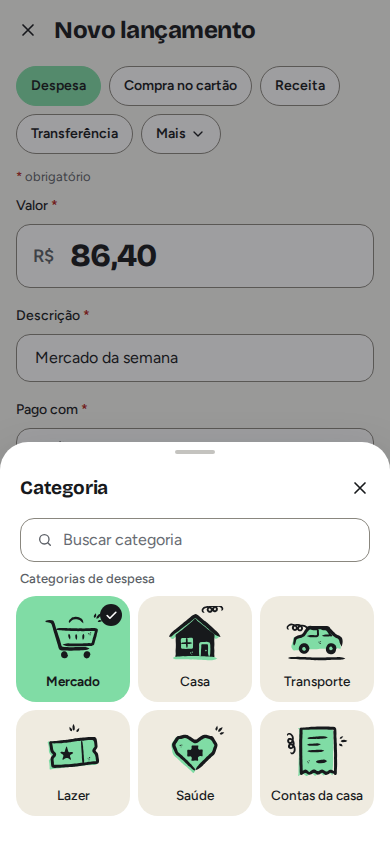
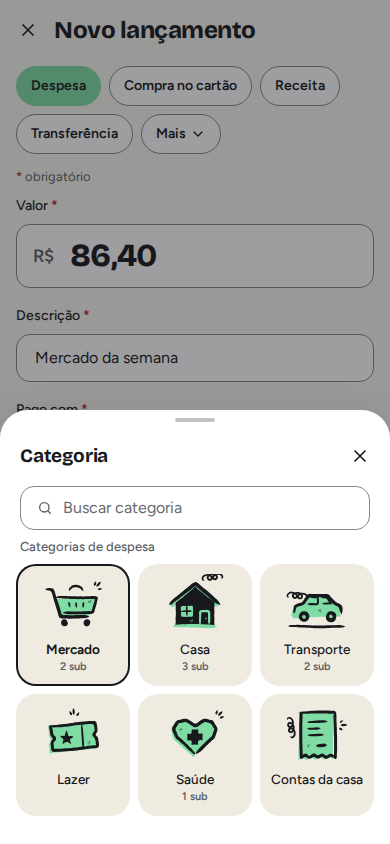
docs: new entry design version 2 and its requirements
The ENT-02 design was updated on 2026-10-14 (version 2, from the
Claude design canvas "Twise Telas · Lançamento"):
- The selected category tile is the paper tile with a 2 px ink
  outline and a bold label, like every other selection in the app; no
  full mint tile (the mint inside the drawing vanished on it) and no
  check mark.
- Subcategories: a parent shows "N sub"; tapping it opens the row
  "Em {mãe}" with "Só {mãe}" and its children, and choosing one closes
  the sheet; the search finds subcategories ("Feira · em Mercado"); the
  field reads "Mercado › Feira" with the parent's drawing. New boards
  ENT-subcategoria and ENT-subcategoria-escolhida.
- The loose travel drawing (viagem.svg) joins the loose set.

The package replaces the changed files and adds the new ones; the
relative link fixed in #225 is kept. Requirements follow it:
entries.md (category grid, subcategories), ui-standards.md (the
selected tile), roadmap.

Claude-Session: https://claude.ai/code/session_01VG8RraA5akgb2F579vzDwF

Changed region(s): [[0.0, 0.4621, 1.0, 0.955]]

diff --git a/docs/design/entries/screens/html/ENT-categoria.html b/docs/design/entries/screens/html/ENT-categoria.html
@@ -13,6 +13,6 @@ body{margin:0}
 <body>
 <div style="width:390px;height:844px" class="app ent"><div class="ent-scroll"><header class="ent-top"><button class="icon-btn" type="button" aria-label="Cancelar"><svg class="icon" viewBox="0 0 24 24" fill="none" stroke="currentColor" stroke-width="2" stroke-linecap="round" stroke-linejoin="round" aria-hidden="true"><path d="M18 6 6 18M6 6l12 12"/></svg></button><h1>Novo lançamento</h1></header><div class="ent-types" role="radiogroup" aria-label="Tipo de lançamento"><button class="tchip" role="radio" aria-checked="true" type="button">Despesa</button><button class="tchip" role="radio" aria-checked="false" type="button">Compra no cartão</button><button class="tchip" role="radio" aria-checked="false" type="button">Receita</button><button class="tchip" role="radio" aria-checked="false" type="button">Transferência</button><button class="tchip tchip--more" role="radio" aria-checked="false" type="button" aria-haspopup="dialog">Mais<svg class="icon-sm" viewBox="0 0 24 24" fill="none" stroke="currentColor" stroke-width="2" stroke-linecap="round" stroke-linejoin="round" aria-hidden="true"><path d="M6 9l6 6 6-6"/></svg></button></div><p class="req-hint"><b aria-hidden="true">*</b> obrigatório</p><form class="ent-form" novalidate><div class="fn-field"><label class="fn-field__label" for="valor">Valor <b aria-hidden="true">*</b></label><div class="fn-input money-in ent-money"><span class="money-in__cur">R$</span><input id="valor" inputmode="decimal" placeholder="0,00" value="86,40"></div></div><div class="fn-field" style="position:relative"><label class="fn-field__label" for="desc">Descrição <b aria-hidden="true">*</b></label><div class="fn-input"><input id="desc" placeholder="Ex.: Mercado da semana" value="Mercado da semana"></div></div><div class="fn-field"><span class="fn-field__label">Pago com <b aria-hidden="true">*</b></span><button class="pick" type="button" aria-haspopup="dialog"><img src="../../../assets/ilustracoes/soltas/carteira.svg" alt=""><span class="grow">Conta X<small>Saldo de hoje: R$ 4.200,00</small></span><svg class="icon-sm" viewBox="0 0 24 24" fill="none" stroke="currentColor" stroke-width="2" stroke-linecap="round" stroke-linejoin="round" aria-hidden="true"><path d="M6 9l6 6 6-6"/></svg></button></div><div class="fn-field"><span class="fn-field__label">Categoria <b aria-hidden="true">*</b></span><button class="pick" type="button" aria-haspopup="dialog"><img src="../../../assets/ilustracoes/soltas/mercado.svg" alt=""><span class="grow">Mercado</span><svg class="icon-sm" viewBox="0 0 24 24" fill="none" stroke="currentColor" stroke-width="2" stroke-linecap="round" stroke-linejoin="round" aria-hidden="true"><path d="M6 9l6 6 6-6"/></svg></button></div><div class="fn-field"><span class="fn-field__label">Data <b aria-hidden="true">*</b></span><div class="dchips" role="radiogroup" aria-label="Data"><button class="dchip" role="radio" aria-checked="true" type="button">Hoje, 20 out</button><button class="dchip" role="radio" aria-checked="false" type="button">Ontem</button><button class="dchip" role="radio" aria-checked="false" type="button"><svg class="icon-sm" viewBox="0 0 24 24" fill="none" stroke="currentColor" stroke-width="2" stroke-linecap="round" stroke-linejoin="round" aria-hidden="true"><rect x="3" y="4" width="18" height="18" rx="2"/><path d="M16 2v4M8 2v4M3 10h18"/></svg>Outra data</button></div></div><div class="fn-field"><label class="fn-field__label">Forma de pagamento</label><button class="sel" type="button" aria-haspopup="listbox"><span class="grow">Pix</span><svg class="icon-sm" viewBox="0 0 24 24" fill="none" stroke="currentColor" stroke-width="2" stroke-linecap="round" stroke-linejoin="round" aria-hidden="true"><path d="M6 9l6 6 6-6"/></svg></button></div><div class="fn-field"><span class="fn-field__label">Quem gastou</span><div class="who" role="radiogroup" aria-label="Quem gastou"><button class="who__b" role="radio" aria-checked="true" type="button"><span class="avatar">A</span>Member A</button><button class="who__b" role="radio" aria-checked="false" type="button"><span class="avatar">B</span>Member B</button></div></div><div class="fn-field"><span class="fn-field__label">Dividir com contatos</span><button class="add-row" type="button"><svg class="icon-sm ti" viewBox="0 0 24 24" fill="none" stroke="currentColor" stroke-width="1.75" stroke-linecap="round" stroke-linejoin="round" aria-hidden="true"><g class="ti__f" stroke="none"></g><path d="M12 5v14M5 12h14"/></svg>Dividir com contatos</button></div><div class="fn-field"><label class="fn-field__label" for="obs">Observações</label><div class="fn-input ta"><textarea id="obs" rows="2" placeholder=""></textarea></div><div class="fn-field__counter">0/2000</div></div></form></div><div class="ent-foot"><button class="fn-btn fn-btn--primary" type="submit">Salvar lançamento</button><button class="fn-btn fn-btn--tertiary ent-foot__2" type="button">Salvar e registrar outro</button></div><div class="scrim"></div><div class="sheet" role="dialog" aria-modal="true" aria-label="Categoria">
 <div class="sheet__handle"></div>
-<div class="sheet__head"><h2>Categoria</h2><button class="icon-btn" type="button" aria-label="Fechar"><svg class="icon" viewBox="0 0 24 24" fill="none" stroke="currentColor" stroke-width="2" stroke-linecap="round" stroke-linejoin="round" aria-hidden="true"><path d="M18 6 6 18M6 6l12 12"/></svg></button></div><div class="fn-input sheet__search"><svg class="icon-sm" viewBox="0 0 24 24" fill="none" stroke="currentColor" stroke-width="2" stroke-linecap="round" stroke-linejoin="round" aria-hidden="true"><circle cx="11" cy="11" r="7"/><path d="m20 20-3.5-3.5"/></svg><input placeholder="Buscar categoria" aria-label="Buscar categoria"></div><p class="sheet__sub">Categorias de despesa</p><div class="ctiles" role="listbox" aria-label="Categorias"><button class="ctile" type="button" role="option" aria-selected="true"><img src="../../../assets/ilustracoes/soltas/mercado.svg" alt=""><span>Mercado</span><span class="ctile__ok" aria-hidden="true"><svg viewBox="0 0 24 24" fill="none" stroke="currentColor" stroke-width="3" stroke-linecap="round" stroke-linejoin="round"><path d="M20 6 9 17l-5-5"/></svg></span></button><button class="ctile" type="button" role="option" aria-selected="false"><img src="../../../assets/ilustracoes/soltas/casa.svg" alt=""><span>Casa</span></button><button class="ctile" type="button" role="option" aria-selected="false"><img src="../../../assets/ilustracoes/soltas/transporte.svg" alt=""><span>Transporte</span></button><button class="ctile" type="button" role="option" aria-selected="false"><img src="../../../assets/ilustracoes/soltas/lazer.svg" alt=""><span>Lazer</span></button><button class="ctile" type="button" role="option" aria-selected="false"><img src="../../../assets/ilustracoes/soltas/saude.svg" alt=""><span>Saúde</span></button><button class="ctile" type="button" role="option" aria-selected="false"><img src="../../../assets/ilustracoes/soltas/recibo.svg" alt=""><span>Contas da casa</span></button></div></div></div>
+<div class="sheet__head"><h2>Categoria</h2><button class="icon-btn" type="button" aria-label="Fechar"><svg class="icon" viewBox="0 0 24 24" fill="none" stroke="currentColor" stroke-width="2" stroke-linecap="round" stroke-linejoin="round" aria-hidden="true"><path d="M18 6 6 18M6 6l12 12"/></svg></button></div><div class="fn-input sheet__search"><svg class="icon-sm" viewBox="0 0 24 24" fill="none" stroke="currentColor" stroke-width="2" stroke-linecap="round" stroke-linejoin="round" aria-hidden="true"><circle cx="11" cy="11" r="7"/><path d="m20 20-3.5-3.5"/></svg><input placeholder="Buscar categoria" aria-label="Buscar categoria"></div><p class="sheet__sub">Categorias de despesa</p><div class="ctiles" role="listbox" aria-label="Categorias"><button class="ctile" type="button" role="option" aria-selected="true"><img src="../../../assets/ilustracoes/soltas/mercado.svg" alt=""><span>Mercado</span><small class="ctile__cnt">2 sub</small></button><button class="ctile" type="button" role="option" aria-selected="false"><img src="../../../assets/ilustracoes/soltas/casa.svg" alt=""><span>Casa</span><small class="ctile__cnt">3 sub</small></button><button class="ctile" type="button" role="option" aria-selected="false"><img src="../../../assets/ilustracoes/soltas/transporte.svg" alt=""><span>Transporte</span><small class="ctile__cnt">2 sub</small></button><button class="ctile" type="button" role="option" aria-selected="false"><img src="../../../assets/ilustracoes/soltas/lazer.svg" alt=""><span>Lazer</span></button><button class="ctile" type="button" role="option" aria-selected="false"><img src="../../../assets/ilustracoes/soltas/saude.svg" alt=""><span>Saúde</span><small class="ctile__cnt">1 sub</small></button><button class="ctile" type="button" role="option" aria-selected="false"><img src="../../../assets/ilustracoes/soltas/recibo.svg" alt=""><span>Contas da casa</span></button></div></div></div>
 </body>
 </html>

diff --git a/docs/design/entries/screens/html/ENT-subcategoria.html b/docs/design/entries/screens/html/ENT-subcategoria.html
@@ -1,0 +1,18 @@
+<!doctype html>
+<html lang="pt-BR">
+<head>
+<meta charset="utf-8">
+<meta name="viewport" content="width=device-width, initial-scale=1">
+<title>Categoria com subcategorias</title>
+<link rel="stylesheet" href="../../twise.css">
+<link rel="stylesheet" href="https://fonts.googleapis.com/css2?family=Bricolage+Grotesque:opsz,wght@12..96,700..800&amp;family=Figtree:wght@400..700&amp;display=swap">
+<style>
+body{margin:0}
+</style>
+</head>
+<body>
+<div style="width:390px;height:844px" class="app ent"><div class="ent-scroll"><header class="ent-top"><button class="icon-btn" type="button" aria-label="Cancelar"><svg class="icon" viewBox="0 0 24 24" fill="none" stroke="currentColor" stroke-width="2" stroke-linecap="round" stroke-linejoin="round" aria-hidden="true"><path d="M18 6 6 18M6 6l12 12"/></svg></button><h1>Novo lançamento</h1></header><div class="ent-types" role="radiogroup" aria-label="Tipo de lançamento"><button class="tchip" role="radio" aria-checked="true" type="button">Despesa</button><button class="tchip" role="radio" aria-checked="false" type="button">Compra no cartão</button><button class="tchip" role="radio" aria-checked="false" type="button">Receita</button><button class="tchip" role="radio" aria-checked="false" type="button">Transferência</button><button class="tchip tchip--more" role="radio" aria-checked="false" type="button" aria-haspopup="dialog">Mais<svg class="icon-sm" viewBox="0 0 24 24" fill="none" stroke="currentColor" stroke-width="2" stroke-linecap="round" stroke-linejoin="round" aria-hidden="true"><path d="M6 9l6 6 6-6"/></svg></button></div><p class="req-hint"><b aria-hidden="true">*</b> obrigatório</p><form class="ent-form" novalidate><div class="fn-field"><label class="fn-field__label" for="valor">Valor <b aria-hidden="true">*</b></label><div class="fn-input money-in ent-money"><span class="money-in__cur">R$</span><input id="valor" inputmode="decimal" placeholder="0,00" value="86,40"></div></div><div class="fn-field" style="position:relative"><label class="fn-field__label" for="desc">Descrição <b aria-hidden="true">*</b></label><div class="fn-input"><input id="desc" placeholder="Ex.: Mercado da semana" value="Mercado da semana"></div></div><div class="fn-field"><span class="fn-field__label">Pago com <b aria-hidden="true">*</b></span><button class="pick" type="button" aria-haspopup="dialog"><img src="../../../assets/ilustracoes/soltas/carteira.svg" alt=""><span class="grow">Conta X<small>Saldo de hoje: R$ 4.200,00</small></span><svg class="icon-sm" viewBox="0 0 24 24" fill="none" stroke="currentColor" stroke-width="2" stroke-linecap="round" stroke-linejoin="round" aria-hidden="true"><path d="M6 9l6 6 6-6"/></svg></button></div><div class="fn-field"><span class="fn-field__label">Categoria <b aria-hidden="true">*</b></span><button class="pick" type="button" aria-haspopup="dialog"><span class="pick__ic pick__ic--empty"><svg class="icon-sm ti" viewBox="0 0 24 24" fill="none" stroke="currentColor" stroke-width="1.75" stroke-linecap="round" stroke-linejoin="round" aria-hidden="true"><g class="ti__f" stroke="none"></g><path d="M12 5v14M5 12h14"/></svg></span><span class="grow pick__ph">Escolha uma categoria</span><svg class="icon-sm" viewBox="0 0 24 24" fill="none" stroke="currentColor" stroke-width="2" stroke-linecap="round" stroke-linejoin="round" aria-hidden="true"><path d="M6 9l6 6 6-6"/></svg></button></div><div class="fn-field"><span class="fn-field__label">Data <b aria-hidden="true">*</b></span><div class="dchips" role="radiogroup" aria-label="Data"><button class="dchip" role="radio" aria-checked="true" type="button">Hoje, 20 out</button><button class="dchip" role="radio" aria-checked="false" type="button">Ontem</button><button class="dchip" role="radio" aria-checked="false" type="button"><svg class="icon-sm" viewBox="0 0 24 24" fill="none" stroke="currentColor" stroke-width="2" stroke-linecap="round" stroke-linejoin="round" aria-hidden="true"><rect x="3" y="4" width="18" height="18" rx="2"/><path d="M16 2v4M8 2v4M3 10h18"/></svg>Outra data</button></div></div><div class="fn-field"><label class="fn-field__label">Forma de pagamento</label><button class="sel" type="button" aria-haspopup="listbox"><span class="grow">Pix</span><svg class="icon-sm" viewBox="0 0 24 24" fill="none" stroke="currentColor" stroke-width="2" stroke-linecap="round" stroke-linejoin="round" aria-hidden="true"><path d="M6 9l6 6 6-6"/></svg></button></div><div class="fn-field"><span class="fn-field__label">Quem gastou</span><div class="who" role="radiogroup" aria-label="Quem gastou"><button class="who__b" role="radio" aria-checked="true" type="button"><span class="avatar">A</span>Member A</button><button class="who__b" role="radio" aria-checked="false" type="button"><span class="avatar">B</span>Member B</button></div></div><div class="fn-field"><span class="fn-field__label">Dividir com contatos</span><button class="add-row" type="button"><svg class="icon-sm ti" viewBox="0 0 24 24" fill="none" stroke="currentColor" stroke-width="1.75" stroke-linecap="round" stroke-linejoin="round" aria-hidden="true"><g class="ti__f" stroke="none"></g><path d="M12 5v14M5 12h14"/></svg>Dividir com contatos</button></div><div class="fn-field"><label class="fn-field__label" for="obs">Observações</label><div class="fn-input ta"><textarea id="obs" rows="2" placeholder=""></textarea></div><div class="fn-field__counter">0/2000</div></div></form></div><div class="ent-foot"><button class="fn-btn fn-btn--primary" type="submit" aria-disabled="true">Salvar lançamento</button><button class="fn-btn fn-btn--tertiary ent-foot__2" type="button" aria-disabled="true">Salvar e registrar outro</button></div><div class="scrim"></div><div class="sheet" role="dialog" aria-modal="true" aria-label="Categoria">
+<div class="sheet__handle"></div>
+<div class="sheet__head"><h2>Categoria</h2><button class="icon-btn" type="button" aria-label="Fechar"><svg class="icon" viewBox="0 0 24 24" fill="none" stroke="currentColor" stroke-width="2" stroke-linecap="round" stroke-linejoin="round" aria-hidden="true"><path d="M18 6 6 18M6 6l12 12"/></svg></button></div><div class="fn-input sheet__search"><svg class="icon-sm" viewBox="0 0 24 24" fill="none" stroke="currentColor" stroke-width="2" stroke-linecap="round" stroke-linejoin="round" aria-hidden="true"><circle cx="11" cy="11" r="7"/><path d="m20 20-3.5-3.5"/></svg><input placeholder="Buscar categoria" aria-label="Buscar categoria"></div><p class="sheet__sub">Categorias de despesa</p><div class="ctiles" role="listbox" aria-label="Categorias"><button class="ctile" type="button" role="option" aria-selected="true"><img src="../../../assets/ilustracoes/soltas/mercado.svg" alt=""><span>Mercado</span><small class="ctile__cnt">2 sub</small></button><button class="ctile" type="button" role="option" aria-selected="false"><img src="../../../assets/ilustracoes/soltas/casa.svg" alt=""><span>Casa</span><small class="ctile__cnt">3 sub</small></button><button class="ctile" type="button" role="option" aria-selected="false"><img src="../../../assets/ilustracoes/soltas/transporte.svg" alt=""><span>Transporte</span><small class="ctile__cnt">2 sub</small></button><button class="ctile" type="button" role="option" aria-selected="false"><img src="../../../assets/ilustracoes/soltas/lazer.svg" alt=""><span>Lazer</span></button><button class="ctile" type="button" role="option" aria-selected="false"><img src="../../../assets/ilustracoes/soltas/saude.svg" alt=""><span>Saúde</span><small class="ctile__cnt">1 sub</small></button><button class="ctile" type="button" role="option" aria-selected="false"><img src="../../../assets/ilustracoes/soltas/recibo.svg" alt=""><span>Contas da casa</span></button></div><div class="subrow"><p class="sheet__sub" style="margin:0 0 8px">Em Mercado</p><div class="dchips" role="radiogroup" aria-label="Subcategoria de Mercado"><button class="dchip" role="radio" aria-checked="false" type="button">Só Mercado</button><button class="dchip" role="radio" aria-checked="false" type="button">Feira</button><button class="dchip" role="radio" aria-checked="false" type="button">Padaria</button></div></div></div></div>
+</body>
+</html>

diff --git a/docs/design/entries/screens/html/ENT-subcategoria-escolhida.html b/docs/design/entries/screens/html/ENT-subcategoria-escolhida.html
@@ -1,0 +1,16 @@
+<!doctype html>
+<html lang="pt-BR">
+<head>
+<meta charset="utf-8">
+<meta name="viewport" content="width=device-width, initial-scale=1">
+<title>Subcategoria escolhida</title>
+<link rel="stylesheet" href="../../twise.css">
+<link rel="stylesheet" href="https://fonts.googleapis.com/css2?family=Bricolage+Grotesque:opsz,wght@12..96,700..800&amp;family=Figtree:wght@400..700&amp;display=swap">
+<style>
+body{margin:0}
+</style>
+</head>
+<body>
+<div style="width:390px;height:844px" class="app ent"><div class="ent-scroll"><header class="ent-top"><button class="icon-btn" type="button" aria-label="Cancelar"><svg class="icon" viewBox="0 0 24 24" fill="none" stroke="currentColor" stroke-width="2" stroke-linecap="round" stroke-linejoin="round" aria-hidden="true"><path d="M18 6 6 18M6 6l12 12"/></svg></button><h1>Novo lançamento</h1></header><div class="ent-types" role="radiogroup" aria-label="Tipo de lançamento"><button class="tchip" role="radio" aria-checked="true" type="button">Despesa</button><button class="tchip" role="radio" aria-checked="false" type="button">Compra no cartão</button><button class="tchip" role="radio" aria-checked="false" type="button">Receita</button><button class="tchip" role="radio" aria-checked="false" type="button">Transferência</button><button class="tchip tchip--more" role="radio" aria-checked="false" type="button" aria-haspopup="dialog">Mais<svg class="icon-sm" viewBox="0 0 24 24" fill="none" stroke="currentColor" stroke-width="2" stroke-linecap="round" stroke-linejoin="round" aria-hidden="true"><path d="M6 9l6 6 6-6"/></svg></button></div><p class="req-hint"><b aria-hidden="true">*</b> obrigatório</p><form class="ent-form" novalidate><div class="fn-field"><label class="fn-field__label" for="valor">Valor <b aria-hidden="true">*</b></label><div class="fn-input money-in ent-money"><span class="money-in__cur">R$</span><input id="valor" inputmode="decimal" placeholder="0,00" value="86,40"></div></div><div class="fn-field" style="position:relative"><label class="fn-field__label" for="desc">Descrição <b aria-hidden="true">*</b></label><div class="fn-input"><input id="desc" placeholder="Ex.: Mercado da semana" value="Mercado da semana"></div></div><div class="fn-field"><span class="fn-field__label">Pago com <b aria-hidden="true">*</b></span><button class="pick" type="button" aria-haspopup="dialog"><img src="../../../assets/ilustracoes/soltas/carteira.svg" alt=""><span class="grow">Conta X<small>Saldo de hoje: R$ 4.200,00</small></span><svg class="icon-sm" viewBox="0 0 24 24" fill="none" stroke="currentColor" stroke-width="2" stroke-linecap="round" stroke-linejoin="round" aria-hidden="true"><path d="M6 9l6 6 6-6"/></svg></button></div><div class="fn-field"><span class="fn-field__label">Categoria <b aria-hidden="true">*</b></span><button class="pick" type="button" aria-haspopup="dialog"><img src="../../../assets/ilustracoes/soltas/mercado.svg" alt=""><span class="grow">Mercado <span class="crumb-sep">›</span> Feira</span><svg class="icon-sm" viewBox="0 0 24 24" fill="none" stroke="currentColor" stroke-width="2" stroke-linecap="round" stroke-linejoin="round" aria-hidden="true"><path d="M6 9l6 6 6-6"/></svg></button></div><div class="fn-field"><span class="fn-field__label">Data <b aria-hidden="true">*</b></span><div class="dchips" role="radiogroup" aria-label="Data"><button class="dchip" role="radio" aria-checked="true" type="button">Hoje, 20 out</button><button class="dchip" role="radio" aria-checked="false" type="button">Ontem</button><button class="dchip" role="radio" aria-checked="false" type="button"><svg class="icon-sm" viewBox="0 0 24 24" fill="none" stroke="currentColor" stroke-width="2" stroke-linecap="round" stroke-linejoin="round" aria-hidden="true"><rect x="3" y="4" width="18" height="18" rx="2"/><path d="M16 2v4M8 2v4M3 10h18"/></svg>Outra data</button></div></div><div class="fn-field"><label class="fn-field__label">Forma de pagamento</label><button class="sel" type="button" aria-haspopup="listbox"><span class="grow">Pix</span><svg class="icon-sm" viewBox="0 0 24 24" fill="none" stroke="currentColor" stroke-width="2" stroke-linecap="round" stroke-linejoin="round" aria-hidden="true"><path d="M6 9l6 6 6-6"/></svg></button></div><div class="fn-field"><span class="fn-field__label">Quem gastou</span><div class="who" role="radiogroup" aria-label="Quem gastou"><button class="who__b" role="radio" aria-checked="true" type="button"><span class="avatar">A</span>Member A</button><button class="who__b" role="radio" aria-checked="false" type="button"><span class="avatar">B</span>Member B</button></div></div><div class="fn-field"><span class="fn-field__label">Dividir com contatos</span><button class="add-row" type="button"><svg class="icon-sm ti" viewBox="0 0 24 24" fill="none" stroke="currentColor" stroke-width="1.75" stroke-linecap="round" stroke-linejoin="round" aria-hidden="true"><g class="ti__f" stroke="none"></g><path d="M12 5v14M5 12h14"/></svg>Dividir com contatos</button></div><div class="fn-field"><label class="fn-field__label" for="obs">Observações</label><div class="fn-input ta"><textarea id="obs" rows="2" placeholder=""></textarea></div><div class="fn-field__counter">0/2000</div></div></form></div><div class="ent-foot"><button class="fn-btn fn-btn--primary" type="submit">Salvar lançamento</button><button class="fn-btn fn-btn--tertiary ent-foot__2" type="button">Salvar e registrar outro</button></div></div>
+</body>
+</html>

diff --git a/docs/design/entries/twise.css b/docs/design/entries/twise.css
@@ -1464,3 +1464,22 @@ g.ti__f { fill: var(--ti-fill, transparent); }
 .sheet-empty b { font: 650 16px/22px var(--font-sans); color: var(--ink); }
 .sheet-empty .fn-btn { margin-top: 10px; text-decoration: none; }
 .recent__c--on { border-color: var(--ink); box-shadow: inset 0 0 0 1px var(--ink); }
+
+/* ilustração selecionada: papel + contorno escuro, certo à esquerda (decidido na rodada de contas) */
+.ctile[aria-selected="true"] { background: var(--sketch-paper); box-shadow: inset 0 0 0 2px var(--ink); font-weight: 650; }
+.ctile__ok { left: 8px; right: auto; }
+.ctile__ok { width: 16px; height: 16px; top: 7px; left: 7px; }
+.ctile__ok svg { width: 10px; height: 10px; }
+.ctile__ok { top: 11px; left: 11px; }
+
+/* decidido: papel + contorno verde-escuro, sem certo */
+.ctile[aria-selected="true"], .itile[aria-checked="true"] { background: var(--sketch-paper); box-shadow: inset 0 0 0 2px var(--mint-ink); }
+.ctile__ok { display: none; }
+
+/* final: papel + contorno escuro (como as outras seleções), sem certo */
+.ctile[aria-selected="true"], .itile[aria-checked="true"] { background: var(--sketch-paper); box-shadow: inset 0 0 0 2px var(--ink); }
+
+.ctile__cnt { font: 600 11px/14px var(--font-sans); color: var(--ink-muted); }
+.subrow { margin: 8px 16px 4px; padding: 12px; border-radius: var(--radius-lg); background: var(--bg-page); }
+.subrow .dchip { min-height: 40px; background: var(--bg-surface); }
+.crumb-sep { color: var(--ink-subtle); margin: 0 2px; font-weight: 500; }

diff --git a/docs/design/entries/screens.md b/docs/design/entries/screens.md
@@ -6,7 +6,7 @@ updated: 2026-10-14
 
 # New entry screens (ENT-02)
 
-37 boards. Fictitious, consistent numbers: today is 20 Oct, Cartão X closes on 25/10 and is due on 04/11. Notes are in pt-BR, as written by the designer; the copy in the screens is final.
+39 boards. Fictitious, consistent numbers: today is 20 Oct, Cartão X closes on 25/10 and is due on 04/11. Notes are in pt-BR, as written by the designer; the copy in the screens is final.
 
 ## Expense and the basics (mobile)
 
@@ -19,13 +19,15 @@ Full screen, opened by the floating button. Includes the approved shortcuts: "Re
 | Despesa · opcionais (rolada) | mobile | [html](screens/html/ENT-despesa-rolada.html) · [png](screens/png/ENT-despesa-rolada.png) | Rolando: os opcionais, sem asterisco. Forma de pagamento (Pix, Débito, Crédito, Dinheiro, Boleto, Transferência bancária, Débito automático, Outro), Quem gastou, Dividir com contatos e Observações com contador (até 2000). |
 | Despesa · erros ao sair do campo | mobile | [html](screens/html/ENT-despesa-erros.html) · [png](screens/png/ENT-despesa-erros.png) | Erros aparecem ao sair do campo, com ícone e texto, nunca só em vermelho. Mensagens do ui-standards.md. Os erros que voltam da API (ex.: ACCOUNT_NOT_AVAILABLE, "Conta X está arquivada ou foi excluída. Escolha outra.") caem no campo certo, pela tabela do entries.md. |
 | Despesa · sugestões na descrição | mobile | [html](screens/html/ENT-sugestoes.html) · [png](screens/png/ENT-sugestoes.png) | Ao digitar a descrição, até 3 sugestões das descrições recentes do espaço. Escolher uma preenche a descrição e também o resto (ver "Sugestão da descrição preenche o resto", no fim da linha). |
-| Escolher categoria | mobile | [html](screens/html/ENT-categoria.html) · [png](screens/png/ENT-categoria.png) | Categoria abre uma folha de baixo com busca e as categorias de despesa ativas em grade, as mais usadas primeiro. Cada quadrado tem o mesmo fundo de papel da ilustração (sem círculo por cima, para não cortar os detalhes). A escolhida fica toda em menta, com o nome em negrito e o sinal de certo no canto, para não depender só da cor. |
+| Escolher categoria | mobile | [html](screens/html/ENT-categoria.html) · [png](screens/png/ENT-categoria.png) | Categoria abre uma folha de baixo com busca e as categorias de despesa ativas em grade, as mais usadas primeiro. Cada quadrado tem o mesmo fundo de papel da ilustração (sem círculo por cima, para não cortar os detalhes). A escolhida mantém o fundo de papel e ganha um contorno escuro de 2 px (como as outras seleções do app) e o nome em negrito, sem sinal de certo. |
 | Escolher conta (Pago com) | mobile | [html](screens/html/ENT-conta.html) · [png](screens/png/ENT-conta.png) | Pago com: só contas de dinheiro ativas (sem cartões e sem arquivadas), com o saldo de hoje para ajudar a escolher. |
 | Salvando | mobile | [html](screens/html/ENT-salvando.html) · [png](screens/png/ENT-salvando.png) | POST /entries. Spinner no botão com "Salvando…", os dois botões travados. Não fecha a tela até a resposta. |
 | Salvo · volta para a Início | mobile | [html](screens/html/ENT-salvo.html) · [png](screens/png/ENT-salvo.png) | Sucesso: fecha e volta para onde estava, com o toast embaixo, acima da barra: "Lançamento registrado." e "Ver" (abre o detalhe, ENT-03). Some em 4 s; pausa ao tocar. O botão flutuante sobe enquanto o toast aparece. Os números da Início atualizam. "Salvar e registrar outro" mostra o mesmo toast, mas mantém a tela, limpando tudo menos tipo, data e contas. |
 | Cancelar com alterações | mobile | [html](screens/html/ENT-descartar.html) · [png](screens/png/ENT-descartar.png) | "X" (Cancelar) com algo preenchido: "Descartar as alterações?" com "Continuar editando" e "Descartar". Sem nada preenchido, fecha direto. |
 | Repetir um recente · tocado | mobile | [html](screens/html/ENT-recentes.html) · [png](screens/png/ENT-recentes.png) | Um toque em "Mercado da semana" preenche tudo como da última vez (descrição, conta, categoria, forma de pagamento e o valor) e deixa o foco no Valor, já selecionado, para trocar se mudou. Dá para salvar em 2 toques. "Desfazer" limpa o que foi preenchido. A lista é por quem está usando o app e por tipo; some quando o tipo não tem repetidos. Pede à API a lista dos lançamentos frequentes (entra em api-gaps.md). |
 | Sugestão da descrição preenche o resto | mobile | [html](screens/html/ENT-sugestao-escolhida.html) · [png](screens/png/ENT-sugestao-escolhida.png) | Ao escolher "Mercado da semana" nas sugestões, o app preenche também categoria, conta e forma de pagamento iguais à última vez, e o foco volta para o Valor (o que muda de uma vez para outra). Uma linha discreta diz o que foi preenchido, com "Desfazer". Pede à API, junto da sugestão, a categoria, a conta e a forma de pagamento usadas por último (entra em api-gaps.md). |
+| Categoria com subcategorias | mobile | [html](screens/html/ENT-subcategoria.html) · [png](screens/png/ENT-subcategoria.png) | Categorias com subcategorias mostram a contagem no quadrado ("2 sub"). Tocar em Mercado marca o quadrado e abre, logo abaixo, a linha "Em Mercado": "Só Mercado", Feira e Padaria. Escolher uma fecha a folha. Dá para lançar na mãe ("Só Mercado") ou numa filha; o orçamento de Mercado cobre as duas (planning.md). Categoria sem filhas fecha a folha direto. A busca encontra também as subcategorias, mostrando a mãe ("Feira · em Mercado"). |
+| Subcategoria escolhida | mobile | [html](screens/html/ENT-subcategoria-escolhida.html) · [png](screens/png/ENT-subcategoria-escolhida.png) | No campo, a categoria aparece com o caminho "Mercado › Feira" e a ilustração da mãe (subcategorias não têm ilustração própria, a não ser que alguém escolha uma). Em listas e relatórios, o mesmo caminho. |
 
 ## Card purchase (mobile)
 
@@ -74,7 +76,7 @@ Save and register another, a save error, losing the connection, no account yet.
 | Salvar e registrar outro | mobile | [html](screens/html/ENT-salvo-outro.html) · [png](screens/png/ENT-salvo-outro.png) | Depois de "Salvar e registrar outro": a tela continua aberta, com o toast "Lançamento registrado." logo acima dos botões. Ficam o tipo, a data e as contas (aqui Despesa, Hoje e Conta X); o resto limpa e o foco volta para o Valor. Bom para registrar várias compras seguidas. |
 | Erro ao salvar | mobile | [html](screens/html/ENT-erro-salvar.html) · [png](screens/png/ENT-erro-salvar.png) | Erro que não é de um campo (ex.: falha do servidor): a mensagem aparece logo acima dos botões, com o código para o suporte, e nada do que foi digitado se perde. Os botões voltam a funcionar para tentar de novo. Erros de campo continuam no próprio campo. |
 | Sem conexão | mobile | [html](screens/html/ENT-sem-conexao.html) · [png](screens/png/ENT-sem-conexao.png) | A conexão caiu com o formulário aberto (sem conexão antes de abrir, o "Novo lançamento" nem abre: mostra "Sem conexão. Dá para salvar quando a internet voltar.", como na Início). Faixa no topo e os botões de salvar apagados. O formulário continua editável e o que foi digitado não se perde; quando a conexão volta, a faixa some e o botão libera. Nada é salvo escondido para enviar depois (isso seria outra decisão). |
-| Ainda sem conta cadastrada | mobile | [html](screens/html/ENT-sem-conta.html) · [png](screens/png/ENT-sem-conta.png) | Primeiro uso: ao abrir "Pago com" sem nenhuma conta, a folha explica e oferece "Cadastrar conta" (ACC-03), que volta para cá com a conta nova já escolhida e sem perder o que foi digitado. O mesmo vale para "Cartão" ("Vocês ainda não têm um cartão." e "Cadastrar cartão") e para categorias. |
+| Ainda sem conta cadastrada | mobile | [html](screens/html/ENT-sem-conta.html) · [png](screens/png/ENT-sem-conta.png) | Primeiro uso: ao abrir "Pago com" sem nenhuma conta, a folha explica e oferece "Cadastrar conta" (ACC-03; o cartão abre o CARD-04), que volta para cá com a conta nova já escolhida e sem perder o que foi digitado. O mesmo vale para "Cartão" ("Vocês ainda não têm um cartão." e "Cadastrar cartão") e para categorias. |
 
 ## Desktop
 

diff --git a/docs/design/entries/components.md b/docs/design/entries/components.md
@@ -1,7 +1,7 @@
 ---
 summary: The components behind ENT-02, in build order, each mapped to its shadcn/ui piece.
 read_when: Creating or changing a component used by the new-entry form (and later by the accounts, cards and planning forms).
-updated: 2026-10-10
+updated: 2026-10-14
 ---
 
 # Components (ENT-02)
@@ -12,7 +12,7 @@ Reused from the design system: Button, TextField, MoneyInput, Alert, Badge, Amou
 |---|---|---|---|
 | 1 | `MoneyField` | `Input` | Label + "R$" prefix + the amount in the display font (32 px), 64 px tall; the only field taller than the rest. Negative variant (opening balance): "−" and the value in `--danger`. Error below with icon; amber warning variant that does not block (`f-warn`: invoice overpay) |
 | 2 | `PickerField` + `PickerSheet` | `Button` + `Drawer` (mobile) / `Popover` + `Command` (desktop) | 56 px on mobile, 48 px on desktop. Loose illustration (42 px, no circle, no paper), name and a grey second line (balance, closing/due dates, "Renda variável"). Empty: dashed rounded square with "+" and grey placeholder ("Escolha uma categoria"). Sheet: title, optional search, rows with loose illustration (46 px), current one on `--mint-soft` with a check. Empty sheet: big loose illustration, the sentence and a primary "Cadastrar conta" |
-| 3 | `CategoryGrid` | `ToggleGroup` in the sheet | 3 columns of tiles on the paper colour with the illustration (64 px, loose); selected tile all `--mint`, label bold, dark check in the corner. Most used first; search on top |
+| 3 | `CategoryGrid` | `ToggleGroup` in the sheet | 3 columns of tiles on the paper colour with the illustration (64 px, loose); selected = same paper tile with a 2 px `--ink` outline and bold label, no check mark. A category with subcategories shows "N sub" under its name; tapping it opens, right below the grid, the row "Em {mãe}" with "Só {mãe}" and its subcategories as chips (choosing one closes the sheet). A category without children closes the sheet at once. Search also finds subcategories, shown with their parent ("Feira · em Mercado"). The field then reads "Mercado › Feira" with the parent's illustration. Most used first; search on top |
 | 4 | `TypeChips` | `ToggleGroup` (single) | Wrapping pill buttons, all visible (no horizontal scroll): Despesa, Compra no cartão, Receita, Transferência, "Mais ▾". Selected: `--mint` background, `--on-mint` text. "Mais" opens a sheet with the three other types (loose illustration + one-line description) and then shows the chosen type's name |
 | 5 | `DateShortcuts` | `ToggleGroup` + `Popover`/`Calendar` | "Hoje, 20 out" · "Ontem" · "Outra data" (calendar icon; shows the picked date, e.g. "20 set"). Selected: 1.5 px ink outline, bold |
 | 6 | `WhoSpent` | `RadioGroup` as two cards | Avatar + "Member A/B"; default the current user. Only on expense and card purchase |

diff --git a/docs/design/entries/decisions.md b/docs/design/entries/decisions.md
@@ -1,7 +1,7 @@
 ---
 summary: Design decisions for ENT-02 that change or extend entries.md, the app-wide rules decided in this round, and what the API must add.
 read_when: Before building ENT-02, and when updating entries.md, api-gaps.md or the Home illustrations.
-updated: 2026-10-10
+updated: 2026-10-14
 ---
 
 # Decisions (ENT-02)
@@ -16,6 +16,7 @@ Where the design and the requirement docs disagree, the design wins and the doc 
 | Date | Date field, default "Hoje" | Shortcuts "Hoje, dd mmm" · "Ontem" · "Outra data" (calendar) |
 | "Quem gastou" | Common field | Only on expense and card purchase |
 | Shares (RF-ENT-8) | Rows + "Sua parte" line | Dotted leader between name and value, values in one column, "Sua parte" as the last row with its value in that column |
+| Category with subcategories | "Categoria": active expense category | The grid shows the parents; a parent with children shows "N sub" and, when tapped, a row "Em {mãe}" with "Só {mãe}" + its children. Posting to the parent is allowed (the API accepts any active category; the parent's budget covers its children). The field reads "Mercado › Feira" |
 | Save and register another | Keeps type, date and accounts | Same, the toast shows above the buttons, focus back on Valor |
 | Variable income saved | Offer "Ver sugestão de divisão" | The toast action becomes "Ver sugestão de divisão" (instead of "Ver") |
 | Prefilled transfer from HOME-03 | — | A mint band on top: "Parte 1 da divisão da comissão · Reserva de emergência · R$ 600,00"; after saving, back to the split with the part "Feito" |
@@ -35,6 +36,6 @@ Add G38 and G39 to `../../product/requirements/api-gaps.md` and the behaviour to
 
 ## App-wide rules decided in this round
 
-1. **Illustrations:** never clipped in a circle. On white or light surfaces use the loose versions (`../assets/ilustracoes/soltas/`, 42–46 px). The paper square only when the illustration is the button itself (category grid). **The Home still uses circles** (budgets, invoices, goals, first run, empty states): switch them too.
+1. **Illustrations:** never clipped in a circle. On white or light surfaces use the loose versions (`../assets/ilustracoes/soltas/`, 42–46 px). The paper square only when the illustration is the button itself (category grid, illustration picker); selected = 2 px `--ink` outline, no check mark. **The Home still uses circles** (budgets, invoices, goals, first run, empty states): switch them too.
 2. **Desktop forms:** fields side by side share one height (48 px); only money fields are taller. A switch sits beside its label, not at the far edge.
 3. **Name-to-value lists:** dotted leader when the row has a gap and no divider; no leader when rows are split by dividers. On desktop these lists use the full width of their container.

diff --git a/docs/product/requirements/ui-standards.md b/docs/product/requirements/ui-standards.md
@@ -128,15 +128,17 @@ Every screen spec defines each of these:
 - **Percentages:** `72%`, no decimals unless below 10% (`4,5%`).
 
 ## Visual rules across screens
-Decided with the new-entry design (2026-10-10, `../../design/entries/decisions.md`); they hold for
-every screen, the Home included.
+Decided with the new-entry design (2026-10-10, version 2 on 2026-10-14,
+`../../design/entries/decisions.md`); they hold for every screen, the Home included.
 
 - **Illustrations are never clipped in a circle** (it cut the details at the corners). On white or
   light surfaces (picker fields, list rows, sheets, previews, banners, cards) use the loose versions
   without the paper square (`../../design/assets/ilustracoes/soltas/`), 42–46 px. The paper square
-  stays only when the illustration *is* the button (the category grid), and in the dark theme,
-  where the loose drawing's black ink would vanish on a dark surface (found while building,
-  2026-10-14).
+  stays only when the illustration *is* the button (the category grid, an illustration picker),
+  where the selected one keeps its paper colour and gets a 2 px `ink` outline and a bold label, like
+  every other selection in the app (no full mint tile, which hides the mint inside the drawing, and
+  no check mark); and in the dark theme, where the loose drawing's black ink would vanish on a dark
+  surface (found while building, 2026-10-14).
 - **Desktop forms:** fields side by side share one height (48 px, the `control` size); only money
   fields are taller. A switch sits beside its label, not at the far edge of the row.
 - **Name-to-value lists** (the shares of an entry, who owes what): a dotted leader between the name

diff --git a/docs/product/requirements/modules/entries.md b/docs/product/requirements/modules/entries.md
@@ -109,7 +109,15 @@ showing the loose illustration, the name and a grey second line ("Saldo de hoje:
 "Fecha 25/10 · vence 04/11", "Renda variável"); empty, a dashed "+" square with a grey placeholder
 ("Escolha uma categoria"). They open a bottom sheet on mobile and a popover with search on desktop;
 the current item is on `mint-soft` with a check. Categories open as a grid of tiles (three columns,
-most used first, search on top); the selected tile is all `mint`, its label bold, with a check.
+the parents, most used first, search on top); the selected tile keeps its paper colour and gets a
+2 px `ink` outline and a bold label, with no check mark.
+**Subcategories:** a category with children shows "{N} sub" under its name. Tapping it marks the
+tile and opens, right below the grid, the row "Em {mãe}" with "Só {mãe}" and its children as
+chips; choosing one closes the sheet. A category without children closes the sheet at once.
+Posting to the parent is allowed (the API accepts any active category; the parent's budget covers
+its children). The search also finds subcategories, shown with their parent ("Feira · em
+Mercado"). The field then reads "Mercado › Feira", with the parent's drawing (subcategories have
+no drawing of their own unless one was chosen).
 **No account or card yet:** the sheet says so ("Vocês ainda não têm um cartão.") and offers
 "Cadastrar conta" / "Cadastrar cartão" (`ACC-03` / `CARD-04`), which comes back with the new one
 selected and nothing typed lost. The same holds for categories.

diff --git a/docs/design/assets/ilustracoes/soltas/README.md b/docs/design/assets/ilustracoes/soltas/README.md
@@ -1,7 +1,7 @@
 ---
 summary: The category illustrations without their paper square, for white or light backgrounds.
 read_when: Showing an illustration inside a field, a list row, a sheet, a preview box or a card.
-updated: 2026-10-10
+updated: 2026-10-14
 ---
 
 # Illustrations without the paper square
@@ -10,4 +10,4 @@ Same drawings as `../` with the `#efebe0` rounded square removed. Rule (decided 
 
 - **Never clip an illustration in a circle** (it cut the details at the corners).
 - On a white or light surface (picker fields, list rows, sheets, the invoice preview, banners, cards) use these loose versions, 42–46 px (the drawing fills about 70% of its box, so it needs a little more size than the old 36 px circle).
-- The paper square (the files in `../`) is used only when the illustration *is* the button, as in the category grid: paper tile when not selected; selected = the whole tile `--mint`, label bold, a dark check in the corner.
+- The paper square (the files in `../`) is used only when the illustration *is* the button, as in the category grid: paper tile when not selected; selected = the same paper tile with a 2 px `--ink` outline (like every other selection in the app) and a bold label, no check mark. Not a full `--mint` tile: the mint inside the drawing disappears on it.

diff --git a/docs/product/roadmap.md b/docs/product/roadmap.md
@@ -201,6 +201,8 @@ updated: 2026-10-14
   2. [x] Requirements: `ENT-02` from the design, RF-ENT-13/14, API gaps G38–G39, the app-wide
      visual rules (no circles, desktop field heights, dotted leaders)
   3. [x] API: description suggestions (G38) and the current person's frequent entries (G39)
+  3b. [x] Design version 2 (2026-10-14): the selected category tile is the paper tile with an ink
+      outline (no mint, no check), and subcategories in the category sheet; requirements updated
   4. [x] Web components: `MoneyInput` (the design's `MoneyField`) and `ChoiceChips` (the type pills,
      the date shortcuts and who spent)
   5. [ ] Web components: `PickerField` + `PickerSheet`, `CategoryGrid`

diff --git a/docs/design/entries/README.md b/docs/design/entries/README.md
@@ -35,4 +35,4 @@ Requirement: `../../product/requirements/modules/entries.md` (ENT-02, RF-ENT-5 t
 
 - ENT-01 list, ENT-03 detail, ENT-04 edit (reuses this form; closed-invoice entries only change description and notes), ENT-05 trash.
 - "Novo contato" inside the contact picker opens CON-05 in a dialog (contacts round).
-- "Cadastrar conta" / "Cadastrar cartão" from the empty pickers open ACC-03 / CARD-04, the new account and new card forms (accounts and cards round) and come back with the new item selected.
+- "Cadastrar conta" / "Cadastrar cartão" from the empty pickers open ACC-03 / CARD-04 (accounts and cards round) and come back with the new item selected.
